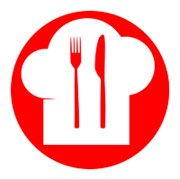
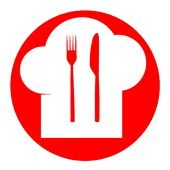
changed fresh and safe vector from index

diff --git a/index.html b/index.html
@@ -315,7 +315,7 @@
             <div class="icon-box" data-aos="zoom-in" data-aos-delay="400">
 
               <h4><a>Fresh & Safe</a></h4>
-              <div class="imgrec"><img src="assets/img/changedservicespics/fresh-wrem-ph.jpg" class="img-fluid" alt=""></div>
+              <div class="imgrec"><img src="assets/img/changedservicespics/freshandsafe.png" class="img-fluid" alt=""></div>
               <p>Our fanatical quality control ensures that every ingredient is fresh and prepared in ultra hygienic conditions.</p>
             </div>
           </div>
